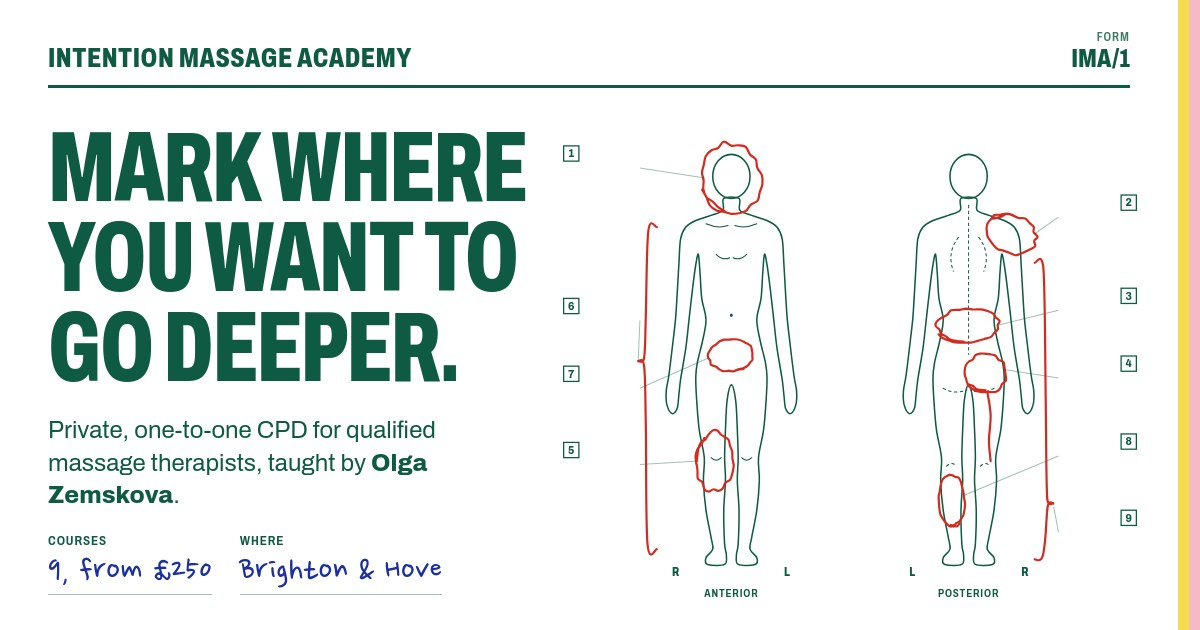
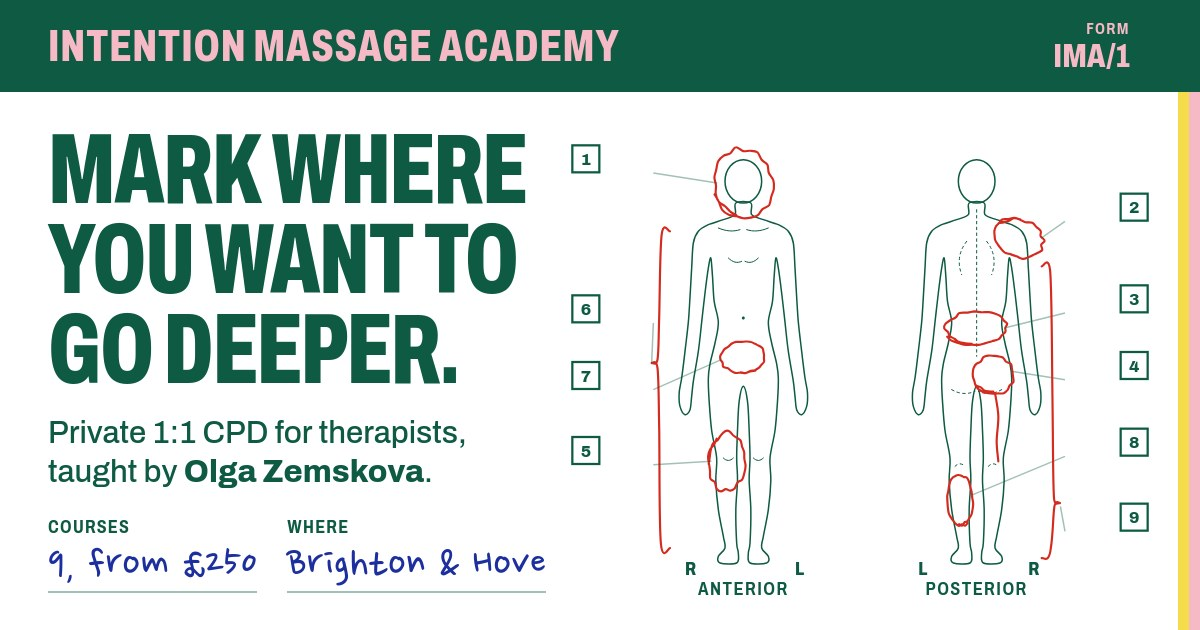
Make the social preview readable at chat size
Pink school name on a form-green band, larger lede, fields, chart
numbers and captions; og:image URL versioned (?v=2) to refresh
WhatsApp's cached preview.

diff --git a/.impeccable/og/og-card.html b/.impeccable/og/og-card.html
@@ -8,20 +8,25 @@
 <style>
   html, body { margin: 0; width: 1200px; height: 630px; overflow: hidden; background: var(--paper); }
   .card { position: relative; width: 1200px; height: 630px; color: var(--ink); font-family: var(--form); }
-  .top { position: absolute; left: 48px; right: 70px; top: 30px; display: flex; justify-content: space-between; align-items: end; padding-bottom: 14px; border-bottom: 3px solid var(--ink); }
-  .top .name { font-weight: 800; font-stretch: 70%; font-size: 28px; letter-spacing: .02em; text-transform: uppercase; line-height: 1; }
-  .top .ref { font-weight: 800; font-stretch: 70%; font-size: 26px; line-height: 1; text-align: right; }
-  .top .ref span { display: block; font-size: 13px; font-weight: 600; letter-spacing: .08em; text-transform: uppercase; color: var(--ink-soft); margin-bottom: 2px; }
-  .left { position: absolute; left: 48px; top: 122px; width: 500px; }
-  .left h1 { font-size: 100px; margin: 0 0 22px; text-wrap: initial; }
-  .left p { margin: 0; font-size: 24px; line-height: 1.35; font-stretch: 100%; max-width: 30ch; }
+  .top { position: absolute; left: 0; right: 0; top: 0; height: 92px; padding: 0 70px 0 48px; display: flex; justify-content: space-between; align-items: center; background: var(--ink); }
+  .top .name { color: var(--pink); font-weight: 800; font-stretch: 70%; font-size: 44px; letter-spacing: .02em; text-transform: uppercase; line-height: 1; }
+  .top .ref { color: var(--pink); font-weight: 800; font-stretch: 70%; font-size: 34px; line-height: 1; text-align: right; }
+  .top .ref span { display: block; font-size: 17px; font-weight: 650; letter-spacing: .08em; text-transform: uppercase; margin-bottom: 2px; }
+  .left { position: absolute; left: 48px; top: 124px; width: 520px; }
+  .left h1 { font-size: 100px; margin: 0 0 20px; text-wrap: initial; }
+  .left p { margin: 0; font-size: 31px; line-height: 1.25; font-stretch: 100%; font-weight: 500; }
   .left p strong { font-weight: 800; }
-  .fields { display: flex; gap: 28px; margin-top: 20px; }
-  .fields div { border-bottom: 1.5px solid var(--rule); padding-bottom: 4px; }
-  .fields b { display: block; font-size: 13px; font-weight: 650; font-stretch: 78%; letter-spacing: .07em; text-transform: uppercase; }
-  .fields span { font-family: var(--pen); color: var(--blue); font-size: 36px; line-height: 1.1; }
-  .chart { position: absolute; left: 545px; top: 112px; width: 610px; }
+  .fields { display: flex; gap: 30px; margin-top: 22px; }
+  .fields div { border-bottom: 2px solid var(--rule); padding-bottom: 2px; }
+  .fields b { display: block; font-size: 18px; font-weight: 700; font-stretch: 78%; letter-spacing: .07em; text-transform: uppercase; }
+  .fields span { font-family: var(--pen); color: var(--blue); font-size: 46px; line-height: 1.05; }
+  .chart { position: absolute; left: 560px; top: 118px; width: 600px; }
   .chart .mark .lab { display: none; }
+  .chart .mark .box { transform-box: fill-box; transform-origin: center; scale: 1.8; }
+  .chart .mark .boxn { font-size: 20px; translate: 0 3px; }
+  .chart .mark .leader { stroke-width: 1.8; }
+  .chart .caps text { font-size: 22px; }
+  .chart .caps .side { font-size: 22px; }
   .copy-edges i { width: 11px; }
 </style>
 </head>
@@ -31,7 +36,7 @@
   <div class="top"><span class="name">Intention Massage Academy</span><span class="ref"><span>Form</span>IMA/1</span></div>
   <div class="left">
     <h1>Mark where you want to go deeper.</h1>
-    <p>Private, one-to-one CPD for qualified massage therapists, taught by <strong>Olga Zemskova</strong>.</p>
+    <p>Private 1:1 CPD for therapists,<br>taught by <strong>Olga Zemskova</strong>.</p>
     <div class="fields"><div><b>Courses</b><span>9, from £250</span></div><div><b>Where</b><span>Brighton &amp; Hove</span></div></div>
   </div>
   <div class="chart"><svg class="chart-svg" viewBox="0 0 720 600" role="group" aria-hidden="true"><title>Body chart. Anterior and posterior views with nine CPD courses marked by body region.</title><defs><clipPath id="clip-migraine"><ellipse cx="220" cy="78" rx="32" ry="37.6" transform="rotate(-8 220 78)"/></clipPath><clipPath id="clip-knee"><ellipse cx="201" cy="412" rx="19.7" ry="32" transform="rotate(4 201 412)"/></clipPath><clipPath id="clip-shoulder"><ellipse cx="550" cy="144" rx="28.2" ry="20.7" transform="rotate(18 550 144)"/></clipPath><clipPath id="clip-lowback"><ellipse cx="500" cy="252" rx="33.8" ry="18.8" transform="rotate(-3 500 252)"/></clipPath><clipPath id="clip-pelvic"><ellipse cx="520" cy="308" rx="22.6" ry="20.7" transform="rotate(8 520 308)"/></clipPath><clipPath id="clip-myo3"><path d="M509 102C512.2 104.3 507.5 112.7 510 116C512.5 119.3 518.7 120 524 122C529.3 124 537 125.7 542 128C547 130.3 551 132.3 554 136C557 139.7 558.7 142.7 560 150C561.3 157.3 561.3 169.2 562 180C562.7 190.8 563.3 204.2 564 215C564.7 225.8 565 234.2 566 245C567 255.8 568.7 268.8 570 280C571.3 291.2 572.8 303.7 574 312C575.2 320.3 576.7 324.3 577 330C577.3 335.7 577.2 341.7 576 346C574.8 350.3 572 355.3 570 356C568 356.7 565.3 353.7 564 350C562.7 346.3 562.7 339.7 562 334C561.3 328.3 561.3 325 560 316C558.7 307 555.7 291.8 554 280C552.3 268.2 551.3 256.7 550 245C548.7 233.3 547.3 220.8 546 210C544.7 199.2 543.2 187 542 180C540.8 173 539.8 166.3 539 168C538.2 169.7 537.7 181.3 537 190C536.3 198.7 536.2 210.8 535 220C533.8 229.2 530.2 236.7 530 245C529.8 253.3 532.3 261.7 534 270C535.7 278.3 538.7 288 540 295C541.3 302 541.8 304.5 542 312C542.2 319.5 541.7 329.5 541 340C540.3 350.5 539.5 363.7 538 375C536.5 386.3 532.8 398 532 408C531.2 418 533.3 424.7 533 435C532.7 445.3 531.5 458.8 530 470C528.5 481.2 525.3 494.3 524 502C522.7 509.7 521 512 522 516C523 520 529 523 530 526C531 529 531.7 532.7 528 534C524.3 535.3 511.7 536 508 534C504.3 532 506 526 506 522C506 518 507.5 518.7 508 510C508.5 501.3 509.2 482.5 509 470C508.8 457.5 507.2 445.3 507 435C506.8 424.7 508 418 508 408C508 398 507.5 386.3 507 375C506.5 363.7 506.2 348.8 505 340C503.8 331.2 501.7 322 500 322C498.3 322 496.2 331.2 495 340C493.8 348.8 493.5 363.7 493 375C492.5 386.3 492 398 492 408C492 418 493.2 424.7 493 435C492.8 445.3 491.2 457.5 491 470C490.8 482.5 491.5 501.3 492 510C492.5 518.7 494 518 494 522C494 526 495.7 532 492 534C488.3 536 475.7 535.3 472 534C468.3 532.7 469 529 470 526C471 523 477 520 478 516C479 512 477.3 509.7 476 502C474.7 494.3 471.5 481.2 470 470C468.5 458.8 467.3 445.3 467 435C466.7 424.7 468.8 418 468 408C467.2 398 463.5 386.3 462 375C460.5 363.7 459.7 350.5 459 340C458.3 329.5 457.8 319.5 458 312C458.2 304.5 458.7 302 460 295C461.3 288 464.3 278.3 466 270C467.7 261.7 470.2 253.3 470 245C469.8 236.7 466.2 229.2 465 220C463.8 210.8 463.7 198.7 463 190C462.3 181.3 461.8 169.7 461 168C460.2 166.3 459.2 173 458 180C456.8 187 455.3 199.2 454 210C452.7 220.8 451.3 233.3 450 245C448.7 256.7 447.7 268.2 446 280C444.3 291.8 441.3 307 440 316C438.7 325 438.7 328.3 438 334C437.3 339.7 437.3 346.3 436 350C434.7 353.7 432 356.7 430 356C428 355.3 425.2 350.3 424 346C422.8 341.7 422.7 335.7 423 330C423.3 324.3 424.8 320.3 426 312C427.2 303.7 428.7 291.2 430 280C431.3 268.8 433 255.8 434 245C435 234.2 435.3 225.8 436 215C436.7 204.2 437.3 190.8 438 180C438.7 169.2 438.7 157.3 440 150C441.3 142.7 443 139.7 446 136C449 132.3 453 130.3 458 128C463 125.7 470.7 124 476 122C481.3 120 487.5 119.3 490 116C492.5 112.7 487.8 104.3 491 102C494.2 99.7 505.8 99.7 509 102Z"/><ellipse cx="500" cy="76" rx="22" ry="26"/></clipPath><clipPath id="clip-womens"><ellipse cx="220" cy="287" rx="26" ry="18.5" transform="rotate(-4 220 287)"/></clipPath><clipPath id="clip-myo1"><ellipse cx="520" cy="458" rx="15" ry="30" transform="rotate(-3 520 458)"/></clipPath></defs><g class="fig" aria-hidden="true"><path d="M229 102C232.2 104.3 227.5 112.7 230 116C232.5 119.3 238.7 120 244 122C249.3 124 257 125.7 262 128C267 130.3 271 132.3 274 136C277 139.7 278.7 142.7 280 150C281.3 157.3 281.3 169.2 282 180C282.7 190.8 283.3 204.2 284 215C284.7 225.8 285 234.2 286 245C287 255.8 288.7 268.8 290 280C291.3 291.2 292.8 303.7 294 312C295.2 320.3 296.7 324.3 297 330C297.3 335.7 297.2 341.7 296 346C294.8 350.3 292 355.3 290 356C288 356.7 285.3 353.7 284 350C282.7 346.3 282.7 339.7 282 334C281.3 328.3 281.3 325 280 316C278.7 307 275.7 291.8 274 280C272.3 268.2 271.3 256.7 270 245C268.7 233.3 267.3 220.8 266 210C264.7 199.2 263.2 187 262 180C260.8 173 259.8 166.3 259 168C258.2 169.7 257.7 181.3 257 190C256.3 198.7 256.2 210.8 255 220C253.8 229.2 250.2 236.7 250 245C249.8 253.3 252.3 261.7 254 270C255.7 278.3 258.7 288 260 295C261.3 302 261.8 304.5 262 312C262.2 319.5 261.7 329.5 261 340C260.3 350.5 259.5 363.7 258 375C256.5 386.3 252.8 398 252 408C251.2 418 253.3 424.7 253 435C252.7 445.3 251.5 458.8 250 470C248.5 481.2 245.3 494.3 244 502C242.7 509.7 241 512 242 516C243 520 249 523 250 526C251 529 251.7 532.7 248 534C244.3 535.3 231.7 536 228 534C224.3 532 226 526 226 522C226 518 227.5 518.7 228 510C228.5 501.3 229.2 482.5 229 470C228.8 457.5 227.2 445.3 227 435C226.8 424.7 228 418 228 408C228 398 227.5 386.3 227 375C226.5 363.7 226.2 348.8 225 340C223.8 331.2 221.7 322 220 322C218.3 322 216.2 331.2 215 340C213.8 348.8 213.5 363.7 213 375C212.5 386.3 212 398 212 408C212 418 213.2 424.7 213 435C212.8 445.3 211.2 457.5 211 470C210.8 482.5 211.5 501.3 212 510C212.5 518.7 214 518 214 522C214 526 215.7 532 212 534C208.3 536 195.7 535.3 192 534C188.3 532.7 189 529 190 526C191 523 197 520 198 516C199 512 197.3 509.7 196 502C194.7 494.3 191.5 481.2 190 470C188.5 458.8 187.3 445.3 187 435C186.7 424.7 188.8 418 188 408C187.2 398 183.5 386.3 182 375C180.5 363.7 179.7 350.5 179 340C178.3 329.5 177.8 319.5 178 312C178.2 304.5 178.7 302 180 295C181.3 288 184.3 278.3 186 270C187.7 261.7 190.2 253.3 190 245C189.8 236.7 186.2 229.2 185 220C183.8 210.8 183.7 198.7 183 190C182.3 181.3 181.8 169.7 181 168C180.2 166.3 179.2 173 178 180C176.8 187 175.3 199.2 174 210C172.7 220.8 171.3 233.3 170 245C168.7 256.7 167.7 268.2 166 280C164.3 291.8 161.3 307 160 316C158.7 325 158.7 328.3 158 334C157.3 339.7 157.3 346.3 156 350C154.7 353.7 152 356.7 150 356C148 355.3 145.2 350.3 144 346C142.8 341.7 142.7 335.7 143 330C143.3 324.3 144.8 320.3 146 312C147.2 303.7 148.7 291.2 150 280C151.3 268.8 153 255.8 154 245C155 234.2 155.3 225.8 156 215C156.7 204.2 157.3 190.8 158 180C158.7 169.2 158.7 157.3 160 150C161.3 142.7 163 139.7 166 136C169 132.3 173 130.3 178 128C183 125.7 190.7 124 196 122C201.3 120 207.5 119.3 210 116C212.5 112.7 207.8 104.3 211 102C214.2 99.7 225.8 99.7 229 102Z"/><ellipse cx="220" cy="76" rx="22" ry="26"/><path d="M509 102C512.2 104.3 507.5 112.7 510 116C512.5 119.3 518.7 120 524 122C529.3 124 537 125.7 542 128C547 130.3 551 132.3 554 136C557 139.7 558.7 142.7 560 150C561.3 157.3 561.3 169.2 562 180C562.7 190.8 563.3 204.2 564 215C564.7 225.8 565 234.2 566 245C567 255.8 568.7 268.8 570 280C571.3 291.2 572.8 303.7 574 312C575.2 320.3 576.7 324.3 577 330C577.3 335.7 577.2 341.7 576 346C574.8 350.3 572 355.3 570 356C568 356.7 565.3 353.7 564 350C562.7 346.3 562.7 339.7 562 334C561.3 328.3 561.3 325 560 316C558.7 307 555.7 291.8 554 280C552.3 268.2 551.3 256.7 550 245C548.7 233.3 547.3 220.8 546 210C544.7 199.2 543.2 187 542 180C540.8 173 539.8 166.3 539 168C538.2 169.7 537.7 181.3 537 190C536.3 198.7 536.2 210.8 535 220C533.8 229.2 530.2 236.7 530 245C529.8 253.3 532.3 261.7 534 270C535.7 278.3 538.7 288 540 295C541.3 302 541.8 304.5 542 312C542.2 319.5 541.7 329.5 541 340C540.3 350.5 539.5 363.7 538 375C536.5 386.3 532.8 398 532 408C531.2 418 533.3 424.7 533 435C532.7 445.3 531.5 458.8 530 470C528.5 481.2 525.3 494.3 524 502C522.7 509.7 521 512 522 516C523 520 529 523 530 526C531 529 531.7 532.7 528 534C524.3 535.3 511.7 536 508 534C504.3 532 506 526 506 522C506 518 507.5 518.7 508 510C508.5 501.3 509.2 482.5 509 470C508.8 457.5 507.2 445.3 507 435C506.8 424.7 508 418 508 408C508 398 507.5 386.3 507 375C506.5 363.7 506.2 348.8 505 340C503.8 331.2 501.7 322 500 322C498.3 322 496.2 331.2 495 340C493.8 348.8 493.5 363.7 493 375C492.5 386.3 492 398 492 408C492 418 493.2 424.7 493 435C492.8 445.3 491.2 457.5 491 470C490.8 482.5 491.5 501.3 492 510C492.5 518.7 494 518 494 522C494 526 495.7 532 492 534C488.3 536 475.7 535.3 472 534C468.3 532.7 469 529 470 526C471 523 477 520 478 516C479 512 477.3 509.7 476 502C474.7 494.3 471.5 481.2 470 470C468.5 458.8 467.3 445.3 467 435C466.7 424.7 468.8 418 468 408C467.2 398 463.5 386.3 462 375C460.5 363.7 459.7 350.5 459 340C458.3 329.5 457.8 319.5 458 312C458.2 304.5 458.7 302 460 295C461.3 288 464.3 278.3 466 270C467.7 261.7 470.2 253.3 470 245C469.8 236.7 466.2 229.2 465 220C463.8 210.8 463.7 198.7 463 190C462.3 181.3 461.8 169.7 461 168C460.2 166.3 459.2 173 458 180C456.8 187 455.3 199.2 454 210C452.7 220.8 451.3 233.3 450 245C448.7 256.7 447.7 268.2 446 280C444.3 291.8 441.3 307 440 316C438.7 325 438.7 328.3 438 334C437.3 339.7 437.3 346.3 436 350C434.7 353.7 432 356.7 430 356C428 355.3 425.2 350.3 424 346C422.8 341.7 422.7 335.7 423 330C423.3 324.3 424.8 320.3 426 312C427.2 303.7 428.7 291.2 430 280C431.3 268.8 433 255.8 434 245C435 234.2 435.3 225.8 436 215C436.7 204.2 437.3 190.8 438 180C438.7 169.2 438.7 157.3 440 150C441.3 142.7 443 139.7 446 136C449 132.3 453 130.3 458 128C463 125.7 470.7 124 476 122C481.3 120 487.5 119.3 490 116C492.5 112.7 487.8 104.3 491 102C494.2 99.7 505.8 99.7 509 102Z"/><ellipse cx="500" cy="76" rx="22" ry="26"/><path class="detail" d="M190 132q14 6 26 2M250 132q-14 6 -26 2 M202 168q8 8 16 4M238 168q-8 8 -16 4 M196 408q6 6 12 0M232 408q6 6 12 0"/><circle class="detail-dot" cx="220" cy="240" r="1.8"/><path class="detail spine" d="M500 110V286 M488 148q-14 18 -6 40M512 148q14 18 6 40 M470 326q14 8 28 2M530 326q-14 8 -28 2 M474 418q6 -6 12 0M514 418q6 -6 12 0"/></g><g class="caps" aria-hidden="true"><text x="220" y="572" text-anchor="middle">Anterior</text><text x="500" y="572" text-anchor="middle">Posterior</text><text class="side" x="150" y="548">R</text><text class="side" x="282" y="548">L</text><text class="side" x="430" y="548">L</text><text class="side" x="562" y="548">R</text></g><g class="mark" data-course="migraine" tabindex="0" role="button" aria-pressed="false" aria-label="Migraine & Headache Relief"><ellipse class="hit" cx="220" cy="78" rx="42" ry="48" transform="rotate(-8 220 78)"/><g class="hatch" clip-path="url(#clip-migraine)"><path pathLength="1" d="M152.6 69.7Q190 39.3 228.3 10.6"/><path pathLength="1" d="M155.8 73.8Q194 43.2 231.5 14.7"/><path pathLength="1" d="M159 77.9Q196.9 48 234.7 18.8"/><path pathLength="1" d="M162.2 82Q199 52.5 237.9 22.9"/><path pathLength="1" d="M165.4 86.1Q202.1 56.4 241.1 27"/><path pathLength="1" d="M168.6 90.2Q205.4 59.7 244.3 31.1"/><path pathLength="1" d="M171.8 94.3Q209.5 65.5 247.5 35.2"/><path pathLength="1" d="M175 98.4Q212 68.2 250.7 39.3"/><path pathLength="1" d="M178.2 102.5Q216.4 74 253.9 43.4"/><path pathLength="1" d="M181.4 106.6Q219.4 76.8 257.1 47.5"/><path pathLength="1" d="M184.6 110.7Q223.6 80.1 260.3 51.6"/><path pathLength="1" d="M187.8 114.8Q226.5 84.7 263.5 55.7"/><path pathLength="1" d="M191 118.9Q228 88.4 266.7 59.8"/><path pathLength="1" d="M194.2 123Q231.6 94.2 269.9 63.9"/><path pathLength="1" d="M197.4 127.1Q234.5 97.7 273.1 68"/><path pathLength="1" d="M200.6 131.2Q238.8 101.3 276.3 72.1"/><path pathLength="1" d="M203.8 135.3Q241.8 104.7 279.5 76.2"/><path pathLength="1" d="M207 139.4Q243.8 109.1 282.7 80.3"/><path pathLength="1" d="M210.2 143.5Q248.5 113.8 285.9 84.4"/></g><path class="ring" pathLength="1" d="M211.8 116.8C210.6 116.1 206.6 114.1 204.3 112.3C202 110.5 200.4 107.9 198.1 105.9C195.8 103.9 192.3 102.8 190.5 100.4C188.6 97.9 187.4 94.3 186.9 91C186.3 87.8 187.5 84.3 187.2 81C186.9 77.7 185.3 74.5 185.3 71.4C185.4 68.2 186.8 65.2 187.5 62C188.2 58.8 188.3 54.9 189.7 52.2C191.2 49.4 193.7 47 196.1 45.4C198.5 43.8 201.8 44.2 204.3 42.5C206.8 40.7 208.3 35.5 210.9 35.1C213.5 34.6 217 39 219.9 39.7C222.8 40.4 225.4 39 228.2 39.3C231 39.5 234.6 39.3 236.9 41.1C239.2 42.9 240 47.6 242 50.1C244 52.6 247.4 53.5 248.9 56.1C250.3 58.8 249.4 62.9 250.6 66C251.8 69.1 255 71.5 256 74.7C256.9 77.9 257 81.7 256.6 85C256.2 88.3 254.5 91.3 253.5 94.5C252.6 97.7 252.7 102 251 104.5C249.2 106.9 245.3 107.3 243 109.3C240.7 111.4 239.5 115.1 237.1 116.8C234.8 118.5 231.6 118.9 228.8 119.5C225.9 120.1 223 120.5 220.1 120.3C217.2 120 214.5 118.6 211.6 117.9C208.6 117.3 205.4 117.4 202.5 116.2C199.7 114.9 196.6 112.9 194.6 110.3C192.6 107.7 192 103.5 190.5 100.3C189 97.2 186.3 93.1 185.4 91.6"/><path class="leader" d="M112 66L188.7 78"/><rect class="box" x="22" y="40" width="18" height="18"/><text class="boxn" x="31" y="53.5" text-anchor="middle">1</text><text class="lab" x="22" y="74" text-anchor="start">Migraine &</text><text class="lab sub" x="22" y="90" text-anchor="start">Headache Relief</text></g><g class="mark" data-course="deep" tabindex="0" role="button" aria-pressed="false" aria-label="Deep Tissue 2 days"><rect class="hit" x="106" y="130" width="40" height="400"/><g class="hatch hatch-wide" clip-path="url(#clip-myo3)" transform="translate(-280 0)"><path pathLength="1" d="M62.1 236.2Q306.9 44.6 553.8 -147.9"/><path pathLength="1" d="M66.4 241.7Q312.6 50.8 558.1 -142.4"/><path pathLength="1" d="M70.7 247.3Q317.3 54.7 562.4 -136.9"/><path pathLength="1" d="M75 252.8Q320.6 61.1 566.7 -131.4"/><path pathLength="1" d="M79.3 258.3Q324 66.1 571 -125.9"/><path pathLength="1" d="M83.6 263.8Q328.7 70.8 575.3 -120.4"/><path pathLength="1" d="M87.9 269.3Q332.7 77.9 579.6 -114.8"/><path pathLength="1" d="M92.2 274.8Q337.2 82.1 583.9 -109.3"/><path pathLength="1" d="M96.5 280.4Q342.1 89.2 588.3 -103.8"/><path pathLength="1" d="M100.8 285.9Q345.7 93.7 592.6 -98.3"/><path pathLength="1" d="M105.2 291.4Q351.1 100.2 596.9 -92.8"/><path pathLength="1" d="M109.5 296.9Q356.1 105.7 601.2 -87.3"/><path pathLength="1" d="M113.8 302.4Q359.1 110.1 605.5 -81.8"/><path pathLength="1" d="M118.1 307.9Q363.6 116.8 609.8 -76.2"/><path pathLength="1" d="M122.4 313.5Q369.3 120.5 614.1 -70.7"/><path pathLength="1" d="M126.7 319Q371.8 126.2 618.4 -65.2"/><path pathLength="1" d="M131 324.5Q376.2 132.4 622.7 -59.7"/><path pathLength="1" d="M135.3 330Q381.4 137.3 627 -54.2"/><path pathLength="1" d="M139.6 335.5Q384.3 143.2 631.3 -48.7"/><path pathLength="1" d="M143.9 341Q389.5 149.1 635.7 -43.1"/><path pathLength="1" d="M148.2 346.5Q395.2 154.9 640 -37.6"/><path pathLength="1" d="M152.6 352.1Q398.5 160.3 644.3 -32.1"/><path pathLength="1" d="M156.9 357.6Q403.1 164.4 648.6 -26.6"/><path pathLength="1" d="M161.2 363.1Q408 171.7 652.9 -21.1"/><path pathLength="1" d="M165.5 368.6Q412.2 177.2 657.2 -15.6"/><path pathLength="1" d="M169.8 374.1Q415.4 181.8 661.5 -10"/><path pathLength="1" d="M174.1 379.6Q419 187.9 665.8 -4.5"/><path pathLength="1" d="M178.4 385.2Q423.2 192 670.1 1"/><path pathLength="1" d="M182.7 390.7Q427.9 197.8 674.4 6.5"/><path pathLength="1" d="M187 396.2Q432.5 203 678.8 12"/><path pathLength="1" d="M191.3 401.7Q436 208.8 683.1 17.5"/><path pathLength="1" d="M195.7 407.2Q440.6 214.8 687.4 23.1"/><path pathLength="1" d="M200 412.7Q444.7 221.6 691.7 28.6"/><path pathLength="1" d="M204.3 418.3Q450.4 225.3 696 34.1"/><path pathLength="1" d="M208.6 423.8Q453.8 231.3 700.3 39.6"/><path pathLength="1" d="M212.9 429.3Q458.4 236.3 704.6 45.1"/><path pathLength="1" d="M217.2 434.8Q463.9 243.9 708.9 50.6"/><path pathLength="1" d="M221.5 440.3Q467.3 248.2 713.2 56.1"/><path pathLength="1" d="M225.8 445.8Q470.7 252.8 717.5 61.7"/><path pathLength="1" d="M230.1 451.4Q475.6 258.7 721.8 67.2"/><path pathLength="1" d="M234.4 456.9Q481.1 264 726.2 72.7"/><path pathLength="1" d="M238.7 462.4Q483.5 271.4 730.5 78.2"/><path pathLength="1" d="M243.1 467.9Q489 275 734.8 83.7"/><path pathLength="1" d="M247.4 473.4Q493.3 280.2 739.1 89.2"/><path pathLength="1" d="M251.7 478.9Q497.6 288 743.4 94.8"/><path pathLength="1" d="M256 484.5Q502.7 292.8 747.7 100.3"/><path pathLength="1" d="M260.3 490Q505.6 297.6 752 105.8"/><path pathLength="1" d="M264.6 495.5Q509.7 304 756.3 111.3"/><path pathLength="1" d="M268.9 501Q514.9 309.6 760.6 116.8"/><path pathLength="1" d="M273.2 506.5Q518.7 313.8 764.9 122.3"/><path pathLength="1" d="M277.5 512Q524.1 321.1 769.3 127.9"/><path pathLength="1" d="M281.8 517.5Q528.6 326.2 773.6 133.4"/><path pathLength="1" d="M286.2 523.1Q532.8 331.6 777.9 138.9"/><path pathLength="1" d="M290.5 528.6Q535.7 336.5 782.2 144.4"/><path pathLength="1" d="M294.8 534.1Q540.3 340.9 786.5 149.9"/><path pathLength="1" d="M299.1 539.6Q543.8 347 790.8 155.4"/><path pathLength="1" d="M303.4 545.1Q548.7 353.5 795.1 161"/><path pathLength="1" d="M307.7 550.6Q554.7 358.4 799.4 166.5"/><path pathLength="1" d="M312 556.2Q558.9 365.2 803.7 172"/><path pathLength="1" d="M316.3 561.7Q563.3 369.3 808 177.5"/><path pathLength="1" d="M320.6 567.2Q565.8 374.4 812.4 183"/><path pathLength="1" d="M324.9 572.7Q570.1 379.9 816.7 188.5"/><path pathLength="1" d="M329.3 578.2Q575.4 387.1 821 194.1"/><path pathLength="1" d="M333.6 583.7Q580.2 391.6 825.3 199.6"/><path pathLength="1" d="M337.9 589.3Q584.1 397.9 829.6 205.1"/><path pathLength="1" d="M342.2 594.8Q587 403.1 833.9 210.6"/><path pathLength="1" d="M346.5 600.3Q593.3 408.9 838.2 216.1"/><path pathLength="1" d="M350.8 605.8Q597.3 413.7 842.5 221.6"/><path pathLength="1" d="M355.1 611.3Q600.2 419.9 846.8 227.1"/><path pathLength="1" d="M359.4 616.8Q604.9 425.5 851.1 232.7"/><path pathLength="1" d="M363.7 622.4Q610.7 430 855.4 238.2"/><path pathLength="1" d="M368 627.9Q613.7 436.9 859.8 243.7"/><path pathLength="1" d="M372.3 633.4Q618.7 440.5 864.1 249.2"/><path pathLength="1" d="M376.7 638.9Q621.6 446 868.4 254.7"/><path pathLength="1" d="M381 644.4Q627.8 453.1 872.7 260.2"/><path pathLength="1" d="M385.3 649.9Q630.3 458.6 877 265.8"/><path pathLength="1" d="M389.6 655.4Q636.6 463.7 881.3 271.3"/><path pathLength="1" d="M393.9 661Q639.4 469 885.6 276.8"/><path pathLength="1" d="M398.2 666.5Q643.2 473.2 889.9 282.3"/><path pathLength="1" d="M402.5 672Q649.5 480.3 894.2 287.8"/><path pathLength="1" d="M406.8 677.5Q652.7 486.5 898.5 293.3"/><path pathLength="1" d="M411.1 683Q656.8 491.8 902.9 298.9"/><path pathLength="1" d="M415.4 688.5Q662.1 495.8 907.2 304.4"/><path pathLength="1" d="M419.8 694.1Q665 501.5 911.5 309.9"/><path pathLength="1" d="M424.1 699.6Q669.3 507.7 915.8 315.4"/><path pathLength="1" d="M428.4 705.1Q673.7 512.8 920.1 320.9"/><path pathLength="1" d="M432.7 710.6Q677.7 519.5 924.4 326.4"/><path pathLength="1" d="M437 716.1Q682.5 523.9 928.7 332"/><path pathLength="1" d="M441.3 721.6Q687.4 530.5 933 337.5"/><path pathLength="1" d="M445.6 727.2Q691.3 536.1 937.3 343"/></g><path class="ring" pathLength="1" d="M132 136C130.3 136.7 124.2 122.7 122 140C119.8 157.3 119.8 215 119 240C118.2 265 118.5 281 117 290C115.5 299 110 292.3 110 294C110 295.7 115.5 287.3 117 300C118.5 312.7 118.3 335 119 370C119.7 405 118.8 485.7 121 510C123.2 534.3 130.2 515 132 516"/><path class="leader" d="M112 246L110 294"/><rect class="box" x="22" y="220" width="18" height="18"/><text class="boxn" x="31" y="233.5" text-anchor="middle">6</text><text class="lab" x="22" y="254" text-anchor="start">Deep Tissue</text><text class="lab sub" x="22" y="270" text-anchor="start">2 days</text></g><g class="mark" data-course="womens" tabindex="0" role="button" aria-pressed="false" aria-label="Women’s Health Bodywork"><ellipse class="hit" cx="220" cy="287" rx="35" ry="28.5" transform="rotate(-4 220 287)"/><g class="hatch" clip-path="url(#clip-womens)"><path pathLength="1" d="M170 285.4Q199.4 260 230.6 238.1"/><path pathLength="1" d="M173.2 289.5Q204.3 263.7 233.8 242.2"/><path pathLength="1" d="M176.4 293.6Q206.9 269.3 237 246.3"/><path pathLength="1" d="M179.6 297.7Q207.7 274.1 240.2 250.4"/><path pathLength="1" d="M182.8 301.8Q210.8 277.8 243.4 254.5"/><path pathLength="1" d="M186 305.9Q214.2 280.2 246.6 258.6"/><path pathLength="1" d="M189.2 310Q219.1 288 249.8 262.7"/><path pathLength="1" d="M192.4 314.1Q220.8 289.1 253 266.8"/><path pathLength="1" d="M195.7 318.2Q226.6 296.8 256.2 270.9"/><path pathLength="1" d="M198.9 322.3Q229.5 298.2 259.4 275"/><path pathLength="1" d="M202.1 326.4Q234.7 300.5 262.6 279.1"/><path pathLength="1" d="M205.3 330.5Q237.3 305.8 265.8 283.2"/><path pathLength="1" d="M208.5 334.6Q236.9 309.1 269 287.3"/></g><path class="ring" pathLength="1" d="M216.8 305.1C217.8 305.2 220.8 306.3 222.7 306.1C224.5 305.8 226.1 304.2 228 303.7C229.8 303.1 232 303.2 233.7 302.6C235.5 301.9 237.2 301 238.5 299.9C239.9 298.9 240.6 297.4 241.6 296.2C242.7 295 244.2 293.9 244.8 292.6C245.3 291.3 244.7 289.7 244.7 288.4C244.7 287 244.9 285.7 244.8 284.4C244.7 283.1 244.4 281.8 244.1 280.4C243.8 279 243.8 277.4 243 276.2C242.1 275 240.2 274.2 238.7 273.3C237.2 272.5 235.6 271.8 234 271C232.4 270.3 230.9 269.2 229.1 268.8C227.4 268.3 225.2 268.3 223.3 268.2C221.3 268.2 219.4 268.6 217.4 268.7C215.4 268.8 213.2 268.4 211.3 268.7C209.3 269.1 207.4 270 205.8 270.9C204.3 271.9 203.4 273.4 202 274.4C200.6 275.5 198.6 276.2 197.4 277.4C196.2 278.5 195.7 280 194.8 281.3C194 282.7 192.7 284 192.3 285.5C191.9 286.9 192.2 288.5 192.6 289.9C193.1 291.3 194.7 292.4 195.2 293.8C195.7 295.2 194.7 297.3 195.8 298.4C196.9 299.5 200 299.6 201.6 300.4C203.2 301.3 204 302.6 205.5 303.5C207 304.4 208.6 305.6 210.5 305.9C212.4 306.3 214.7 305.4 216.8 305.5C218.8 305.5 220.8 306.3 222.7 306.1C224.6 305.8 226.2 304.5 228.2 304.1C230.1 303.6 233.4 303.5 234.4 303.3"/><path class="leader" d="M112 326L193.5 290"/><rect class="box" x="22" y="300" width="18" height="18"/><text class="boxn" x="31" y="313.5" text-anchor="middle">7</text><text class="lab" x="22" y="334" text-anchor="start">Women’s</text><text class="lab sub" x="22" y="350" text-anchor="start">Health Bodywork</text></g><g class="mark" data-course="knee" tabindex="0" role="button" aria-pressed="false" aria-label="Knee & Leg Care · runners"><ellipse class="hit" cx="201" cy="412" rx="29" ry="42" transform="rotate(4 201 412)"/><g class="hatch" clip-path="url(#clip-knee)"><path pathLength="1" d="M143.7 405Q175.9 379.9 208 354.7"/><path pathLength="1" d="M146.9 409.1Q179.1 382.8 211.2 358.8"/><path pathLength="1" d="M150.1 413.2Q182.1 387.3 214.4 362.9"/><path pathLength="1" d="M153.3 417.3Q184.3 392.9 217.6 367"/><path pathLength="1" d="M156.5 421.4Q187.9 396.2 220.8 371.1"/><path pathLength="1" d="M159.7 425.5Q192.4 400.5 224 375.2"/><path pathLength="1" d="M162.9 429.6Q194.7 404.5 227.2 379.3"/><path pathLength="1" d="M166.1 433.7Q198.4 409.2 230.4 383.4"/><path pathLength="1" d="M169.3 437.7Q200.5 412.8 233.6 387.5"/><path pathLength="1" d="M172.5 441.8Q204.1 416.2 236.8 391.6"/><path pathLength="1" d="M175.7 445.9Q208.5 420.8 240 395.7"/><path pathLength="1" d="M178.9 450Q211.2 425.5 243.2 399.8"/><path pathLength="1" d="M182.1 454.1Q215.3 428.9 246.4 403.9"/><path pathLength="1" d="M185.3 458.2Q217.8 433.1 249.7 408"/><path pathLength="1" d="M188.6 462.3Q220.7 437.7 252.9 412.1"/><path pathLength="1" d="M191.8 466.4Q223.8 441.4 256.1 416.2"/></g><path class="ring" pathLength="1" d="M178.4 415.4C178.6 414 179.3 409.7 179.7 406.9C180.1 404 180.2 401.1 180.9 398.3C181.5 395.6 182.3 392.4 183.6 390.5C185 388.5 187.4 388.4 189 386.8C190.5 385.2 191.4 382.7 192.9 381C194.3 379.2 196 377 197.7 376.1C199.4 375.2 201.5 375 203.1 375.8C204.8 376.5 206.2 379.3 207.7 380.7C209.2 382 210.6 382.6 212 383.6C213.5 384.7 215.5 385.2 216.6 386.9C217.7 388.7 217.8 392 218.5 394.3C219.3 396.7 220.5 398.6 221 401C221.4 403.4 220.9 406.2 221.2 408.9C221.5 411.6 222.7 414.4 222.7 417.2C222.7 420 222 423 221.3 425.8C220.6 428.6 220 432 218.6 433.9C217.3 435.8 214.7 435.6 213.1 437.4C211.6 439.2 211 442.9 209.5 444.6C208 446.2 206 447.1 204.3 447.2C202.5 447.3 200.8 445.2 199 445.3C197.2 445.4 195.1 448.1 193.3 448.1C191.5 448 189.4 447 188.1 445.1C186.8 443.2 186.9 438.9 185.6 436.8C184.3 434.7 181.3 435 180.4 432.8C179.5 430.5 180.3 426.5 180 423.6C179.8 420.7 179.3 418.2 178.9 415.4C178.5 412.5 177.5 409.3 177.7 406.4C177.9 403.5 178.9 400.2 180.1 397.8C181.3 395.4 183.5 394.1 184.8 392C186.2 389.8 187.5 386 188 384.8"/><path class="leader" d="M112 416L181.7 412"/><rect class="box" x="22" y="390" width="18" height="18"/><text class="boxn" x="31" y="403.5" text-anchor="middle">5</text><text class="lab" x="22" y="424" text-anchor="start">Knee & Leg</text><text class="lab sub" x="22" y="440" text-anchor="start">Care · runners</text></g><g class="mark" data-course="shoulder" tabindex="0" role="button" aria-pressed="false" aria-label="Shoulder Advanced techniques"><ellipse class="hit" cx="550" cy="144" rx="38" ry="30" transform="rotate(18 550 144)"/><g class="hatch" clip-path="url(#clip-shoulder)"><path pathLength="1" d="M499.5 137.8Q527.9 115.2 556.2 93.5"/><path pathLength="1" d="M502.7 141.9Q530.3 119.3 559.4 97.6"/><path pathLength="1" d="M505.9 146Q534.8 122.7 562.6 101.7"/><path pathLength="1" d="M509.1 150.1Q537.6 127.8 565.8 105.8"/><path pathLength="1" d="M512.3 154.2Q539.5 131.6 569 109.9"/><path pathLength="1" d="M515.5 158.3Q544.1 136.1 572.2 114"/><path pathLength="1" d="M518.7 162.4Q546 141.4 575.4 118.1"/><path pathLength="1" d="M521.9 166.5Q550.9 145.4 578.6 122.2"/><path pathLength="1" d="M525.1 170.6Q552.5 147.9 581.8 126.2"/><path pathLength="1" d="M528.3 174.7Q555.5 153.2 585 130.3"/><path pathLength="1" d="M531.5 178.8Q559.3 155.7 588.2 134.4"/><path pathLength="1" d="M534.7 182.9Q562.9 161.7 591.4 138.5"/><path pathLength="1" d="M537.9 187Q567 164.2 594.6 142.6"/><path pathLength="1" d="M541.1 191.1Q568.6 169.9 597.8 146.7"/></g><path class="ring" pathLength="1" d="M526.4 126.1C527.6 125.9 531.2 125.4 533.3 124.9C535.5 124.4 537.2 124 539.1 123.2C541 122.4 542.7 120.5 544.9 120.3C547.1 120.1 549.9 121.2 552.1 122C554.4 122.8 556.1 124.5 558.6 125.1C561 125.7 564.6 124.8 566.8 125.7C569 126.7 570 129.2 571.7 130.8C573.4 132.5 576.1 133.9 576.9 135.7C577.7 137.5 576 139.8 576.7 141.7C577.5 143.6 581.4 145.6 581.5 147.3C581.6 149.1 577.9 150.2 577.4 152C576.9 153.9 579.4 156.7 578.7 158.4C578.1 160 575.1 160.6 573.3 161.7C571.4 162.7 569.7 163.5 567.8 164.4C566 165.4 564.2 166.3 562.1 167.1C560.1 167.9 557.8 169.3 555.4 169.1C553 169 550.2 167 547.9 166C545.5 165.1 543.5 164.3 541.1 163.6C538.8 162.9 535.9 162.7 533.9 161.6C531.9 160.4 530.5 158.3 529.1 156.7C527.6 155 526.4 153.3 525.3 151.6C524.1 149.9 522.8 148.2 522.2 146.4C521.6 144.6 521.7 142.8 521.5 141C521.4 139.2 521 137.3 521.3 135.6C521.5 133.8 522 132 522.9 130.5C523.8 128.9 525.4 127.8 526.7 126.3C528 124.9 528.7 122.5 530.5 121.7C532.4 120.8 535.7 121.6 538.1 121.2C540.4 120.9 542.5 119.8 544.8 119.8C547.2 119.9 550.9 121.4 552.2 121.7"/><path class="leader" d="M606 124L577.6 144"/><rect class="box" x="680" y="98" width="18" height="18"/><text class="boxn" x="689" y="111.5" text-anchor="middle">2</text><text class="lab" x="698" y="132" text-anchor="end">Shoulder</text><text class="lab sub" x="698" y="148" text-anchor="end">Advanced techniques</text></g><g class="mark" data-course="lowback" tabindex="0" role="button" aria-pressed="false" aria-label="Low Back Pain Solutions"><ellipse class="hit" cx="500" cy="252" rx="44" ry="28" transform="rotate(-3 500 252)"/><g class="hatch" clip-path="url(#clip-lowback)"><path pathLength="1" d="M439.4 244.6Q473 216.8 507.4 191.4"/><path pathLength="1" d="M442.6 248.7Q476 220.9 510.6 195.5"/><path pathLength="1" d="M445.8 252.7Q480.4 226.3 513.8 199.6"/><path pathLength="1" d="M449 256.8Q482.3 230.2 517 203.7"/><path pathLength="1" d="M452.2 260.9Q487.3 233.4 520.3 207.8"/><path pathLength="1" d="M455.4 265Q490.2 238.3 523.5 211.8"/><path pathLength="1" d="M458.6 269.1Q492.6 243.3 526.7 215.9"/><path pathLength="1" d="M461.8 273.2Q495.6 246.7 529.9 220"/><path pathLength="1" d="M465 277.3Q499.5 251.9 533.1 224.1"/><path pathLength="1" d="M468.2 281.4Q501.8 255.6 536.3 228.2"/><path pathLength="1" d="M471.4 285.5Q505.9 259.3 539.5 232.3"/><path pathLength="1" d="M474.6 289.6Q508.4 262.7 542.7 236.4"/><path pathLength="1" d="M477.8 293.7Q510.8 266.2 545.9 240.5"/><path pathLength="1" d="M481 297.8Q514 271.8 549.1 244.6"/><path pathLength="1" d="M484.2 301.9Q517.6 274.5 552.3 248.7"/><path pathLength="1" d="M487.4 306Q520.4 280.2 555.5 252.8"/><path pathLength="1" d="M490.6 310.1Q525.5 283.9 558.7 256.9"/></g><path class="ring" pathLength="1" d="M494.1 271.1C492.8 271 488.7 270.7 486 270.3C483.3 269.9 480.3 269.5 478.2 268.6C476 267.7 475.1 266 473.3 264.9C471.5 263.7 468.6 262.9 467.4 261.6C466.1 260.2 466.7 258.5 465.7 256.9C464.6 255.4 461.5 254 461 252.3C460.5 250.7 461.3 248.7 462.5 247.1C463.7 245.5 466.3 244 468.3 242.7C470.4 241.4 473.1 240.7 474.9 239.2C476.8 237.8 477 235.1 479.3 234.1C481.7 233.2 486 233.9 489.1 233.5C492.1 233.2 494.7 232.2 497.5 232.1C500.3 232.1 503 233 505.8 233.1C508.6 233.3 511.8 232.7 514.6 233C517.3 233.3 520 234.1 522.4 234.9C524.9 235.8 527.4 236.8 529 238.1C530.6 239.3 530.9 241.1 532.2 242.6C533.4 244 536.2 245.2 536.6 246.7C536.9 248.3 534.7 250.1 534.4 251.7C534 253.4 535.2 255 534.5 256.5C533.8 258 531.5 259.4 530.2 260.8C528.8 262.3 528.3 264.3 526.4 265.4C524.4 266.6 521 267.1 518.4 267.9C515.7 268.6 513.3 269.4 510.7 270.1C508.1 270.8 505.4 271.9 502.6 272.2C499.7 272.5 496.8 272.1 493.8 272.1C490.8 272.1 487.4 272.5 484.6 272.1C481.8 271.7 479.4 270.5 476.8 269.6C474.2 268.8 471.2 268 469.2 266.8C467.2 265.6 465.4 263.1 464.6 262.4"/><path class="leader" d="M606 234L533.1 252"/><rect class="box" x="680" y="208" width="18" height="18"/><text class="boxn" x="689" y="221.5" text-anchor="middle">3</text><text class="lab" x="698" y="242" text-anchor="end">Low Back Pain</text><text class="lab sub" x="698" y="258" text-anchor="end">Solutions</text></g><g class="mark" data-course="pelvic" tabindex="0" role="button" aria-pressed="false" aria-label="Pelvic & Sciatica Release"><ellipse class="hit" cx="520" cy="308" rx="32" ry="30" transform="rotate(8 520 308)"/><g class="hatch" clip-path="url(#clip-pelvic)"><path pathLength="1" d="M479.6 303Q502.8 286.2 525 267.6"/><path pathLength="1" d="M482.8 307.1Q505.2 289 528.2 271.7"/><path pathLength="1" d="M486 311.2Q509.8 292.7 531.4 275.8"/><path pathLength="1" d="M489.2 315.3Q512.4 297.9 534.6 279.9"/><path pathLength="1" d="M492.4 319.4Q514 302.5 537.8 284"/><path pathLength="1" d="M495.6 323.5Q519.2 306.1 541 288.1"/><path pathLength="1" d="M498.8 327.6Q522 310.6 544.2 292.2"/><path pathLength="1" d="M502 331.7Q523.8 314 547.4 296.3"/><path pathLength="1" d="M505.2 335.8Q527.9 318.9 550.6 300.4"/><path pathLength="1" d="M508.4 339.9Q531.8 323 553.8 304.5"/><path pathLength="1" d="M511.6 344Q534.5 327.2 557 308.6"/><path pathLength="1" d="M514.8 348.1Q537.9 330.8 560.2 312.6"/></g><path class="ring" pathLength="1" d="M520 328.4C519.1 328.3 516.4 328.3 514.5 328C512.7 327.8 510.6 327.7 509 326.9C507.4 326.1 506.7 324.2 505 323.2C503.3 322.2 500.3 322.1 499 320.8C497.7 319.5 497.7 317.2 497.2 315.4C496.6 313.6 495.7 311.9 495.4 310.2C495.2 308.4 495.2 306.5 495.4 304.7C495.6 302.9 495.9 300.9 496.6 299.3C497.4 297.6 498.6 296 500 294.8C501.4 293.6 503.7 293.5 505.1 292.1C506.5 290.8 506.7 288 508.1 286.9C509.6 285.7 512 285.4 514 285.1C515.9 284.9 518 285.2 520.1 285.4C522.1 285.6 524 285.7 526 286.1C527.9 286.4 530.2 286.6 531.8 287.7C533.3 288.8 533.8 291.3 535.3 292.5C536.9 293.7 540 293.7 541.1 295.1C542.3 296.5 542 298.9 542.3 300.8C542.6 302.6 542.8 304.2 543 306C543.3 307.7 543.6 309.4 543.8 311.2C544 313.1 544.8 315.4 544.1 317C543.4 318.6 540.8 319.4 539.6 320.9C538.4 322.5 538.4 324.7 537.2 326.3C536 327.8 534.3 329.5 532.4 330.2C530.6 330.9 528 330.5 526 330.5C523.9 330.6 522 330.8 519.9 330.7C517.9 330.7 515.9 330.6 513.9 330.3C511.9 330 509.8 329.6 507.9 328.8C506 328.1 504 327 502.5 325.7C501 324.4 499.4 321.8 498.7 321"/><path class="ring trail" pathLength="1" d="M522 330C522.7 334.7 525.7 348.3 526 358C526.3 367.7 524 379 524 388C524 397 525.7 408 526 412"/><path class="leader" d="M606 314L541.6 304"/><rect class="box" x="680" y="288" width="18" height="18"/><text class="boxn" x="689" y="301.5" text-anchor="middle">4</text><text class="lab" x="698" y="322" text-anchor="end">Pelvic & Sciatica</text><text class="lab sub" x="698" y="338" text-anchor="end">Release</text></g><g class="mark" data-course="myo1" tabindex="0" role="button" aria-pressed="false" aria-label="Myofascial Release, 1 day"><ellipse class="hit" cx="520" cy="458" rx="24" ry="40" transform="translate(-40 0) rotate(-3 520 458)"/><g class="hatch" clip-path="url(#clip-myo1)" transform="translate(-40 0)"><path pathLength="1" d="M463.8 456.2Q499.2 430 531.9 403"/><path pathLength="1" d="M467 460.3Q502.9 432.8 535.1 407.1"/><path pathLength="1" d="M470.2 464.4Q505.2 438.3 538.3 411.2"/><path pathLength="1" d="M473.4 468.5Q507.8 441.7 541.5 415.3"/><path pathLength="1" d="M476.6 472.6Q512.3 448.2 544.7 419.4"/><path pathLength="1" d="M479.8 476.7Q513.7 450.9 547.9 423.5"/><path pathLength="1" d="M483 480.8Q514.9 455.2 551.1 427.6"/><path pathLength="1" d="M486.2 484.9Q521 460.8 554.3 431.7"/><path pathLength="1" d="M489.4 489Q525.1 461.3 557.5 435.8"/><path pathLength="1" d="M492.6 493.1Q526.1 467.4 560.7 439.9"/><path pathLength="1" d="M495.8 497.2Q527.5 470.4 563.9 444"/><path pathLength="1" d="M499 501.3Q531.4 472.8 567.1 448.1"/><path pathLength="1" d="M502.2 505.4Q534.1 480.2 570.3 452.2"/><path pathLength="1" d="M505.4 509.5Q537.6 481.7 573.5 456.3"/></g><path class="ring" pathLength="1" transform="translate(-40 0)" d="M519 487.3C519.5 487.6 521.4 489.6 522.4 489.3C523.5 488.9 524.3 486.2 525.3 485.3C526.3 484.4 527.5 484.7 528.5 483.9C529.5 483 530.3 481.6 531.2 480.2C532.1 478.8 533.1 477.5 533.8 475.7C534.4 474 534.7 471.6 535.1 469.4C535.4 467.2 535.9 464.9 535.8 462.7C535.8 460.4 535 458 534.7 455.8C534.4 453.5 534.4 451.2 534 449.1C533.7 447 532.9 445.2 532.4 443C531.8 440.9 531.5 438.3 530.8 436.3C530.1 434.4 529.1 432.4 528 431.4C526.9 430.5 525.4 431.2 524.3 430.7C523.1 430.3 522.1 429.3 521 428.9C519.9 428.5 518.8 428.3 517.7 428.4C516.6 428.6 515.6 429.1 514.5 429.6C513.4 430.1 512.3 430.5 511.3 431.5C510.3 432.4 509.2 433.6 508.5 435.3C507.8 436.9 507.4 439.1 506.9 441.2C506.5 443.2 506.4 445.4 506 447.4C505.7 449.5 504.9 451.3 504.7 453.5C504.5 455.6 504.8 458 504.9 460.3C505 462.6 505.2 464.9 505.4 467.2C505.7 469.6 505.9 472.3 506.5 474.3C507.1 476.4 508.3 478 509.2 479.6C510.2 481.2 511.2 482.5 512.2 483.7C513.3 485 514.3 486.4 515.4 487.4C516.5 488.3 517.7 489.4 518.9 489.5C520 489.5 521.1 487.6 522.3 487.5C523.5 487.5 524.9 489.5 526.1 489.2C527.2 489 528.7 486.5 529.2 486"/><path class="leader" d="M606 406L495.5 452"/><rect class="box" x="680" y="380" width="18" height="18"/><text class="boxn" x="689" y="393.5" text-anchor="middle">8</text><text class="lab" x="698" y="414" text-anchor="end">Myofascial</text><text class="lab sub" x="698" y="430" text-anchor="end">Release · 1 day</text></g><g class="mark" data-course="myo3" tabindex="0" role="button" aria-pressed="false" aria-label="Myofascial Release, 3 days"><rect class="hit" x="579" y="170" width="24" height="365"/><g class="hatch hatch-wide" clip-path="url(#clip-myo3)"><path pathLength="1" d="M62.1 236.2Q306.9 44.6 553.8 -147.9"/><path pathLength="1" d="M66.4 241.7Q312.6 50.8 558.1 -142.4"/><path pathLength="1" d="M70.7 247.3Q317.3 54.7 562.4 -136.9"/><path pathLength="1" d="M75 252.8Q320.6 61.1 566.7 -131.4"/><path pathLength="1" d="M79.3 258.3Q324 66.1 571 -125.9"/><path pathLength="1" d="M83.6 263.8Q328.7 70.8 575.3 -120.4"/><path pathLength="1" d="M87.9 269.3Q332.7 77.9 579.6 -114.8"/><path pathLength="1" d="M92.2 274.8Q337.2 82.1 583.9 -109.3"/><path pathLength="1" d="M96.5 280.4Q342.1 89.2 588.3 -103.8"/><path pathLength="1" d="M100.8 285.9Q345.7 93.7 592.6 -98.3"/><path pathLength="1" d="M105.2 291.4Q351.1 100.2 596.9 -92.8"/><path pathLength="1" d="M109.5 296.9Q356.1 105.7 601.2 -87.3"/><path pathLength="1" d="M113.8 302.4Q359.1 110.1 605.5 -81.8"/><path pathLength="1" d="M118.1 307.9Q363.6 116.8 609.8 -76.2"/><path pathLength="1" d="M122.4 313.5Q369.3 120.5 614.1 -70.7"/><path pathLength="1" d="M126.7 319Q371.8 126.2 618.4 -65.2"/><path pathLength="1" d="M131 324.5Q376.2 132.4 622.7 -59.7"/><path pathLength="1" d="M135.3 330Q381.4 137.3 627 -54.2"/><path pathLength="1" d="M139.6 335.5Q384.3 143.2 631.3 -48.7"/><path pathLength="1" d="M143.9 341Q389.5 149.1 635.7 -43.1"/><path pathLength="1" d="M148.2 346.5Q395.2 154.9 640 -37.6"/><path pathLength="1" d="M152.6 352.1Q398.5 160.3 644.3 -32.1"/><path pathLength="1" d="M156.9 357.6Q403.1 164.4 648.6 -26.6"/><path pathLength="1" d="M161.2 363.1Q408 171.7 652.9 -21.1"/><path pathLength="1" d="M165.5 368.6Q412.2 177.2 657.2 -15.6"/><path pathLength="1" d="M169.8 374.1Q415.4 181.8 661.5 -10"/><path pathLength="1" d="M174.1 379.6Q419 187.9 665.8 -4.5"/><path pathLength="1" d="M178.4 385.2Q423.2 192 670.1 1"/><path pathLength="1" d="M182.7 390.7Q427.9 197.8 674.4 6.5"/><path pathLength="1" d="M187 396.2Q432.5 203 678.8 12"/><path pathLength="1" d="M191.3 401.7Q436 208.8 683.1 17.5"/><path pathLength="1" d="M195.7 407.2Q440.6 214.8 687.4 23.1"/><path pathLength="1" d="M200 412.7Q444.7 221.6 691.7 28.6"/><path pathLength="1" d="M204.3 418.3Q450.4 225.3 696 34.1"/><path pathLength="1" d="M208.6 423.8Q453.8 231.3 700.3 39.6"/><path pathLength="1" d="M212.9 429.3Q458.4 236.3 704.6 45.1"/><path pathLength="1" d="M217.2 434.8Q463.9 243.9 708.9 50.6"/><path pathLength="1" d="M221.5 440.3Q467.3 248.2 713.2 56.1"/><path pathLength="1" d="M225.8 445.8Q470.7 252.8 717.5 61.7"/><path pathLength="1" d="M230.1 451.4Q475.6 258.7 721.8 67.2"/><path pathLength="1" d="M234.4 456.9Q481.1 264 726.2 72.7"/><path pathLength="1" d="M238.7 462.4Q483.5 271.4 730.5 78.2"/><path pathLength="1" d="M243.1 467.9Q489 275 734.8 83.7"/><path pathLength="1" d="M247.4 473.4Q493.3 280.2 739.1 89.2"/><path pathLength="1" d="M251.7 478.9Q497.6 288 743.4 94.8"/><path pathLength="1" d="M256 484.5Q502.7 292.8 747.7 100.3"/><path pathLength="1" d="M260.3 490Q505.6 297.6 752 105.8"/><path pathLength="1" d="M264.6 495.5Q509.7 304 756.3 111.3"/><path pathLength="1" d="M268.9 501Q514.9 309.6 760.6 116.8"/><path pathLength="1" d="M273.2 506.5Q518.7 313.8 764.9 122.3"/><path pathLength="1" d="M277.5 512Q524.1 321.1 769.3 127.9"/><path pathLength="1" d="M281.8 517.5Q528.6 326.2 773.6 133.4"/><path pathLength="1" d="M286.2 523.1Q532.8 331.6 777.9 138.9"/><path pathLength="1" d="M290.5 528.6Q535.7 336.5 782.2 144.4"/><path pathLength="1" d="M294.8 534.1Q540.3 340.9 786.5 149.9"/><path pathLength="1" d="M299.1 539.6Q543.8 347 790.8 155.4"/><path pathLength="1" d="M303.4 545.1Q548.7 353.5 795.1 161"/><path pathLength="1" d="M307.7 550.6Q554.7 358.4 799.4 166.5"/><path pathLength="1" d="M312 556.2Q558.9 365.2 803.7 172"/><path pathLength="1" d="M316.3 561.7Q563.3 369.3 808 177.5"/><path pathLength="1" d="M320.6 567.2Q565.8 374.4 812.4 183"/><path pathLength="1" d="M324.9 572.7Q570.1 379.9 816.7 188.5"/><path pathLength="1" d="M329.3 578.2Q575.4 387.1 821 194.1"/><path pathLength="1" d="M333.6 583.7Q580.2 391.6 825.3 199.6"/><path pathLength="1" d="M337.9 589.3Q584.1 397.9 829.6 205.1"/><path pathLength="1" d="M342.2 594.8Q587 403.1 833.9 210.6"/><path pathLength="1" d="M346.5 600.3Q593.3 408.9 838.2 216.1"/><path pathLength="1" d="M350.8 605.8Q597.3 413.7 842.5 221.6"/><path pathLength="1" d="M355.1 611.3Q600.2 419.9 846.8 227.1"/><path pathLength="1" d="M359.4 616.8Q604.9 425.5 851.1 232.7"/><path pathLength="1" d="M363.7 622.4Q610.7 430 855.4 238.2"/><path pathLength="1" d="M368 627.9Q613.7 436.9 859.8 243.7"/><path pathLength="1" d="M372.3 633.4Q618.7 440.5 864.1 249.2"/><path pathLength="1" d="M376.7 638.9Q621.6 446 868.4 254.7"/><path pathLength="1" d="M381 644.4Q627.8 453.1 872.7 260.2"/><path pathLength="1" d="M385.3 649.9Q630.3 458.6 877 265.8"/><path pathLength="1" d="M389.6 655.4Q636.6 463.7 881.3 271.3"/><path pathLength="1" d="M393.9 661Q639.4 469 885.6 276.8"/><path pathLength="1" d="M398.2 666.5Q643.2 473.2 889.9 282.3"/><path pathLength="1" d="M402.5 672Q649.5 480.3 894.2 287.8"/><path pathLength="1" d="M406.8 677.5Q652.7 486.5 898.5 293.3"/><path pathLength="1" d="M411.1 683Q656.8 491.8 902.9 298.9"/><path pathLength="1" d="M415.4 688.5Q662.1 495.8 907.2 304.4"/><path pathLength="1" d="M419.8 694.1Q665 501.5 911.5 309.9"/><path pathLength="1" d="M424.1 699.6Q669.3 507.7 915.8 315.4"/><path pathLength="1" d="M428.4 705.1Q673.7 512.8 920.1 320.9"/><path pathLength="1" d="M432.7 710.6Q677.7 519.5 924.4 326.4"/><path pathLength="1" d="M437 716.1Q682.5 523.9 928.7 332"/><path pathLength="1" d="M441.3 721.6Q687.4 530.5 933 337.5"/><path pathLength="1" d="M445.6 727.2Q691.3 536.1 937.3 343"/></g><path class="ring" pathLength="1" d="M578 178C579.7 178.7 585.8 164.7 588 182C590.2 199.3 590.2 280 591 340C591.8 400 591.5 446 593 458C594.5 467 600 460.3 600 462C600 463.7 594.5 455.3 593 468C591.5 480.7 591.6 500 589 516C586.8 536 579.8 527 578 528"/><path class="leader" d="M606 496L600.5 466"/><rect class="box" x="680" y="470" width="18" height="18"/><text class="boxn" x="689" y="483.5" text-anchor="middle">9</text><text class="lab" x="698" y="504" text-anchor="end">Myofascial</text><text class="lab sub" x="698" y="520" text-anchor="end">Release · 3 days</text></g></svg></div>

diff --git a/index.html b/index.html
@@ -16,7 +16,7 @@
 <meta property="og:url" content="https://ganbarucodes.github.io/intention-massage/">
 <meta property="og:title" content="Intention Massage Academy | Advanced 1:1 CPD for massage therapists">
 <meta property="og:description" content="Private, one-to-one CPD for qualified massage therapists (Level 3+), taught by advanced clinical therapist Olga Zemskova in Brighton &amp; Hove. Book on WhatsApp.">
-<meta property="og:image" content="https://ganbarucodes.github.io/intention-massage/assets/img/og-card.jpg">
+<meta property="og:image" content="https://ganbarucodes.github.io/intention-massage/assets/img/og-card.jpg?v=2">
 <meta property="og:image:width" content="1200">
 <meta property="og:image:height" content="630">
 <meta property="og:image:alt" content="Mark where you want to go deeper: a body chart with nine CPD courses marked in red ballpoint.">
